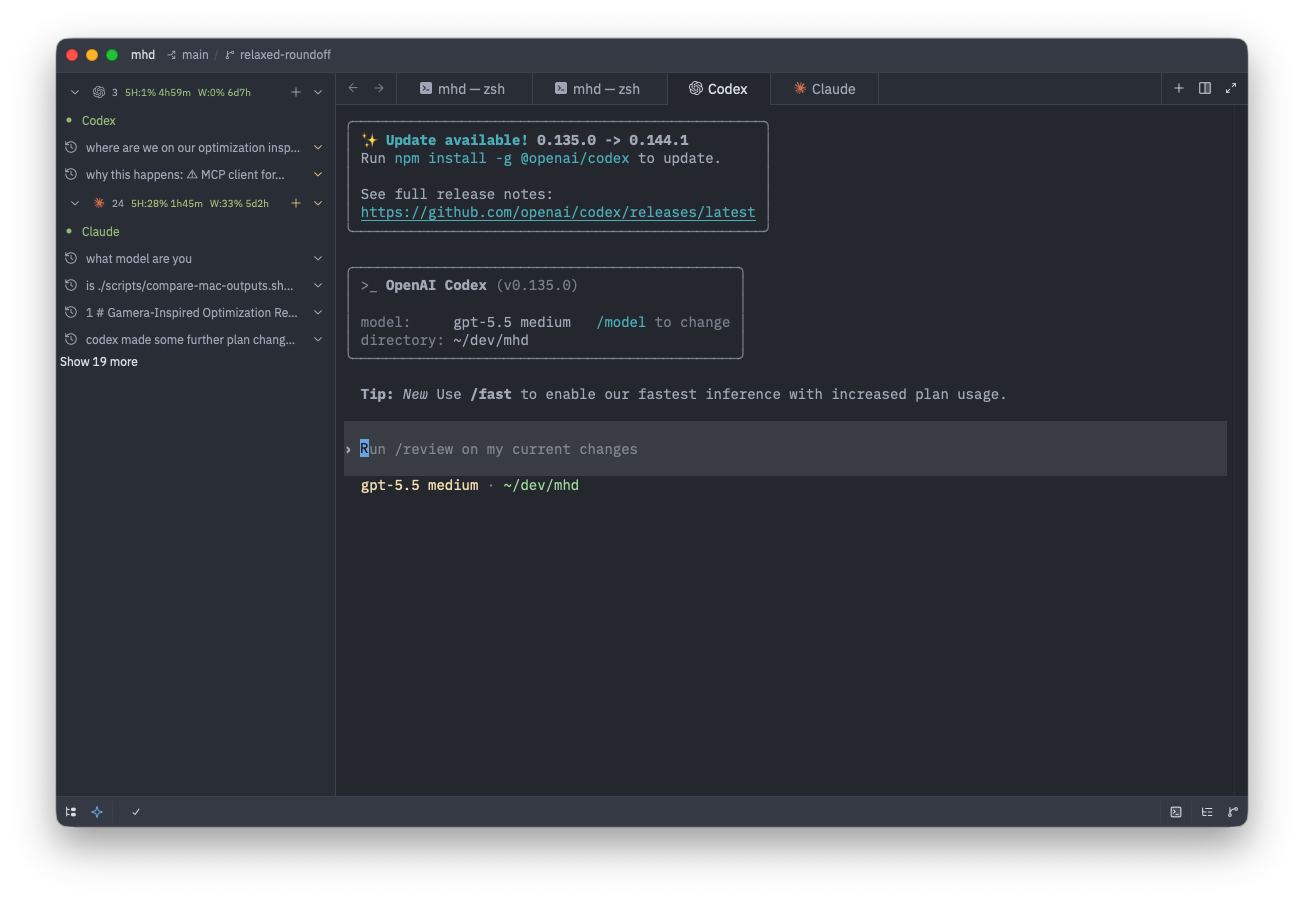
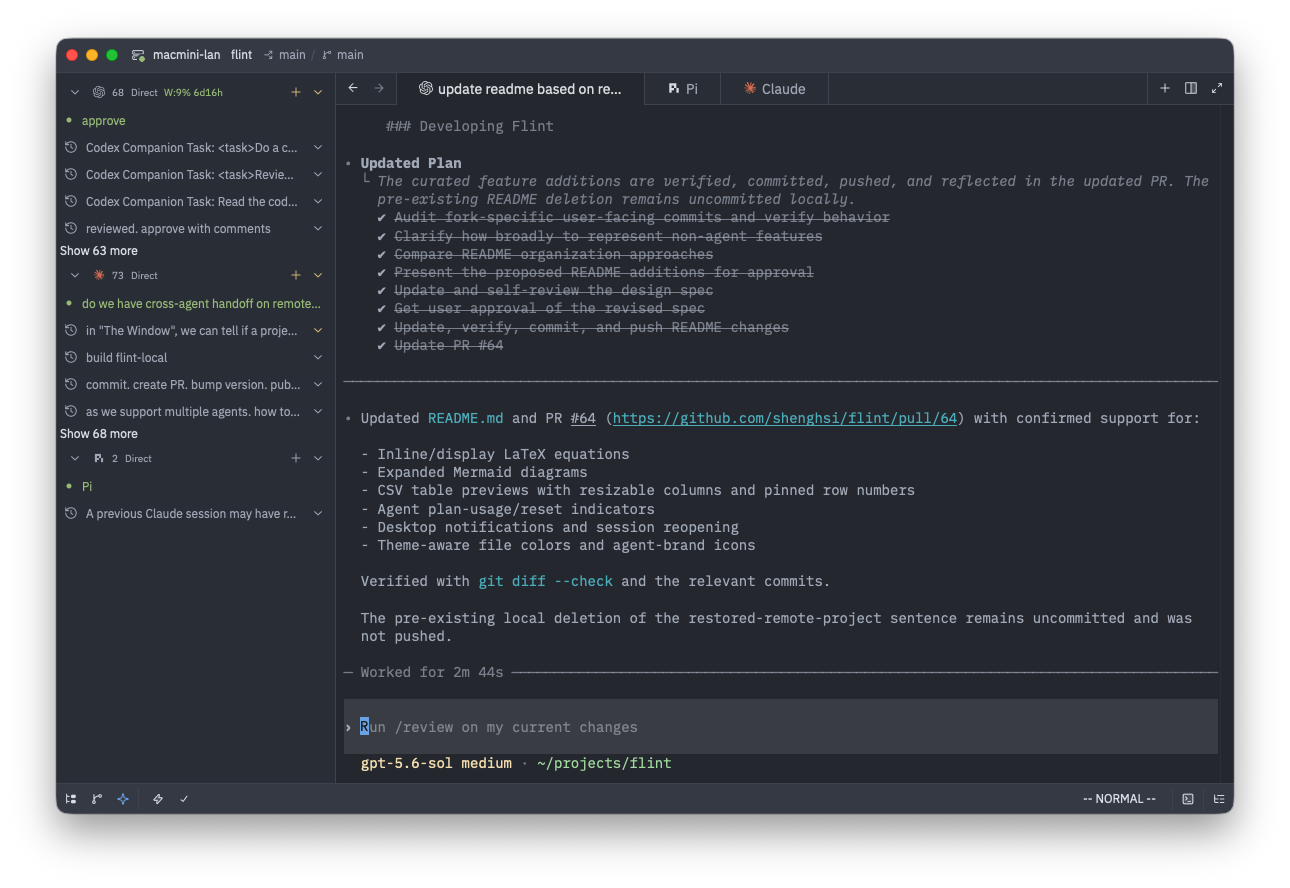
Add handoff screenshot to README (#65)
* Document README handoff screenshot design

* Add handoff screenshot to README

* Update flint-workspace.png

---------

diff --git a/docs/superpowers/specs/2026-07-26-readme-handoff-screenshot-design.md b/docs/superpowers/specs/2026-07-26-readme-handoff-screenshot-design.md
@@ -1,0 +1,29 @@
+# README Handoff Screenshot Design
+
+**Date:** 2026-07-26
+**Status:** Approved
+
+## Goal
+
+Show the cross-agent handoff menu in the README using the supplied screenshot.
+
+## Placement
+
+Add `assets/screenshots/handoff.png` as a standalone Markdown image immediately
+after the complete **Added** feature list and before the **Removed** heading.
+This keeps the feature bullets uninterrupted while placing the screenshot next
+to the handoff description.
+
+Use the alt text:
+
+> Agent Threads menu with Hand off to Codex and Hand off to Pi actions
+
+Keep the supplied PNG unchanged and allow Markdown to render it at its natural
+size.
+
+## Verification
+
+- Confirm the PNG decodes successfully and record its dimensions.
+- Confirm the README image path resolves with exact filename casing.
+- Run `git diff --check` and inspect the rendered Markdown structure.
+- Do not include the unrelated modification to `flint-workspace.png`.

diff --git a/README.md b/README.md
@@ -33,6 +33,8 @@ Flint is for developers who want the project awareness and visual review tools o
 - **CSV table previews:** Open saved `.csv` files as tables with independently resizable columns and a pinned row-number column.
 - **Faster visual navigation and review:** Distinguish file types with theme-aware colors and agents with recognizable brand icons, then open project changes directly from the editor toolbar for review with Zed's Git and diff views.
 
+![Agent Threads menu with Hand off to Codex and Hand off to Pi actions](assets/screenshots/handoff.png)
+
 ### Removed
 
 Flint does not ship Zed's native agent and chat interface, hosted AI models, model-provider configuration, Copilot or edit predictions, account and billing UI, or real-time collaboration and calls. The result is a smaller, local-first product surface that leaves agent behavior and credentials with the CLI tools you already use.
